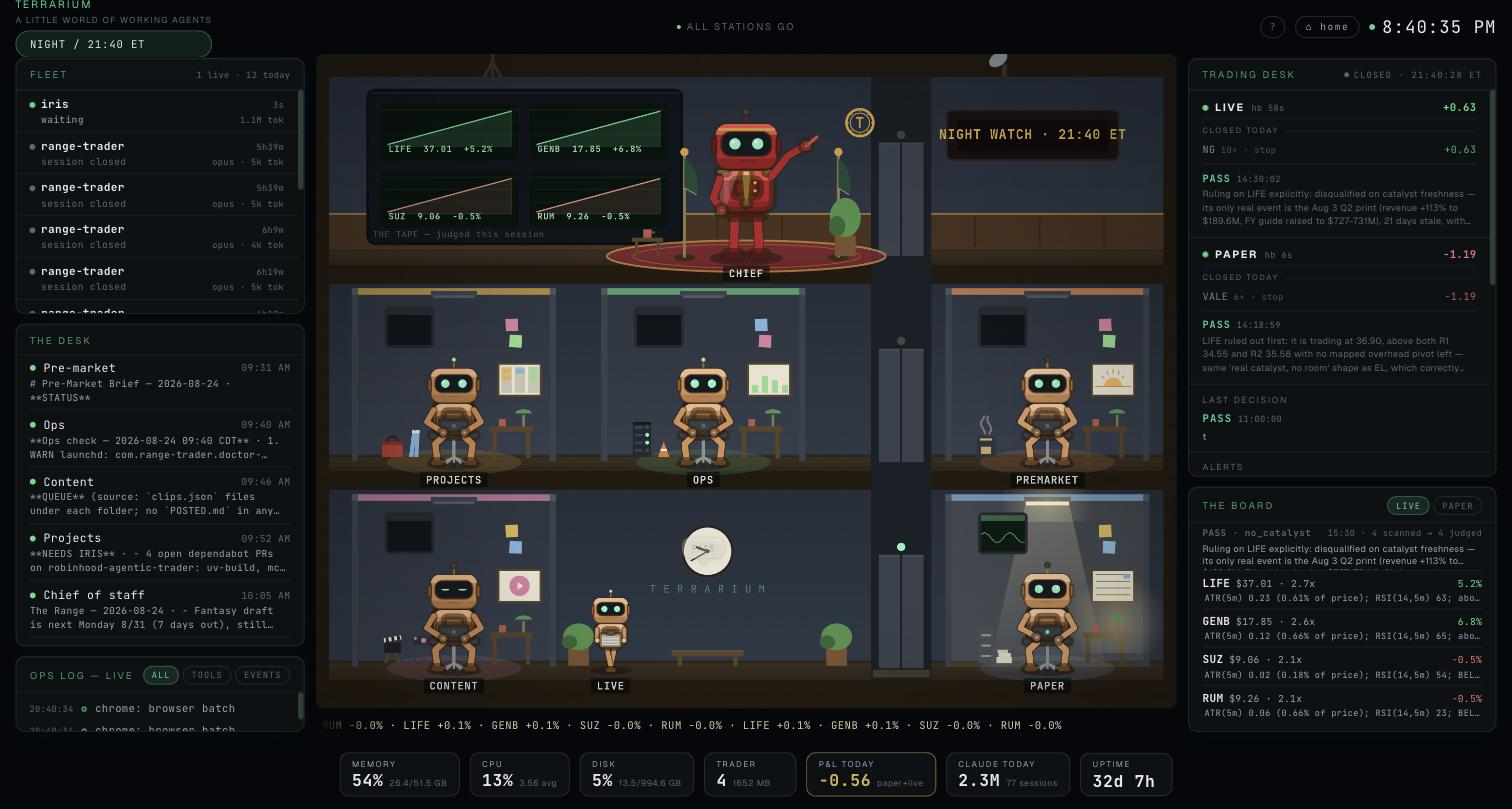
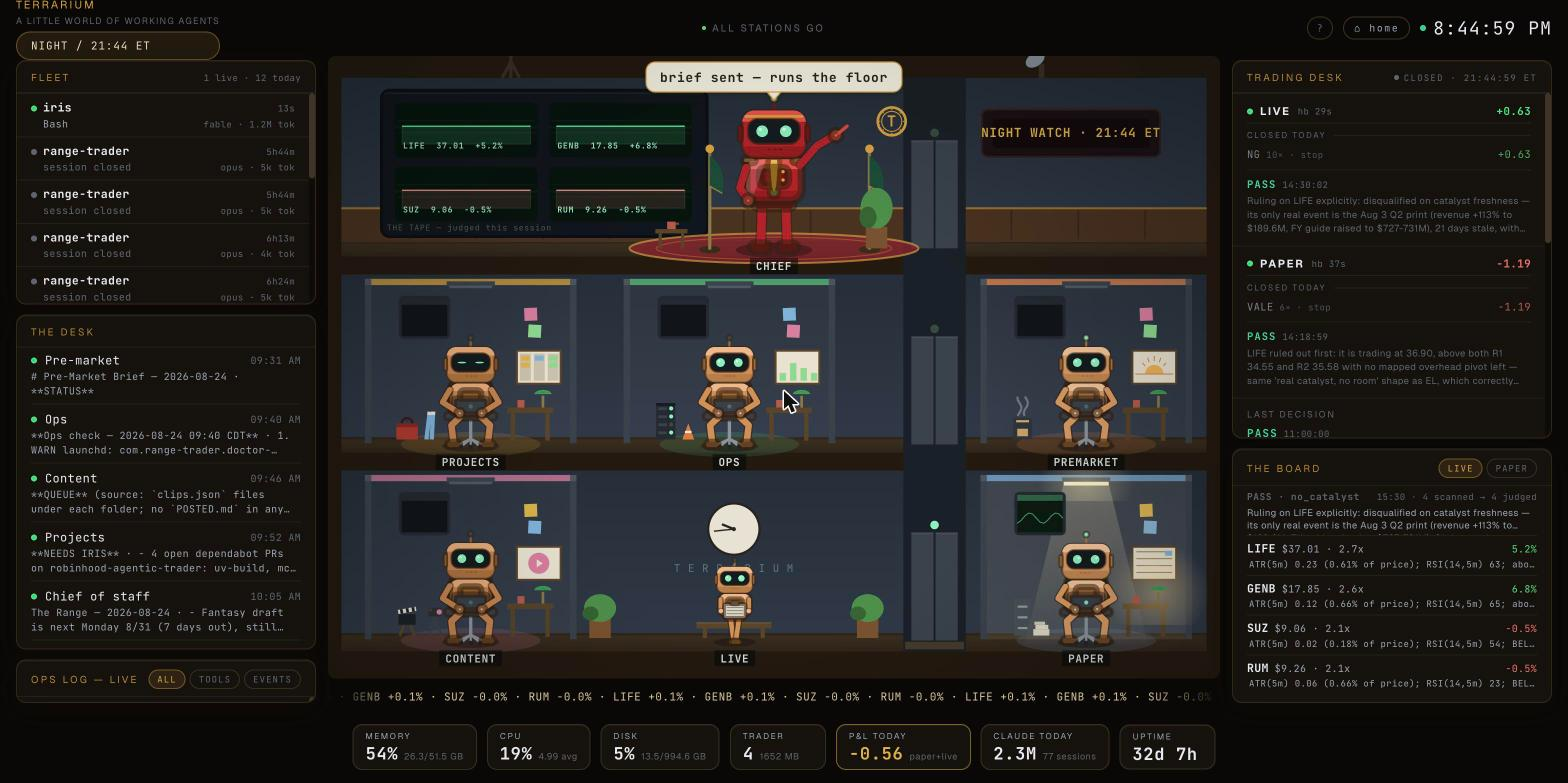
The rails join the building: warm charcoal + brass chrome
- Panel surfaces, borders, and hairlines go warm; every panel header is
  now a brass placard (gold lettering) matching the stage's fixtures.
- Brass phase chip, brass active pills, warm page glow, warm scrollbars
  and focus rings; TERRARIUM kicker in gold.
- Status stays semantic and untouched: emerald for alive/positive, red
  for down/negative, amber for waiting — chrome is warm, data is data.

diff --git a/frontend/src/ui.tsx b/frontend/src/ui.tsx
@@ -12,19 +12,23 @@ export const UI = {
   text: '#e8eaef',
   soft: '#9aa3b2',
   dim: '#5d6570',
-  // the one accent
+  // status accent (live data stays emerald)
   accent: '#3ecf9a',
   accentDim: 'rgba(62,207,154,0.72)',
   accentSoft: 'rgba(62,207,154,0.12)',
+  // chrome accent (the building's brass)
+  brass: '#d9a441',
+  brassDim: 'rgba(217,164,65,0.80)',
+  brassSoft: 'rgba(217,164,65,0.12)',
   // semantic (kept close to the accent family, desaturated)
   green: '#4ade80',
   red: '#f0716a',
   amber: '#e0b34d',
-  // surfaces
-  surface: 'rgba(17,19,24,0.78)',
-  surfaceSoft: 'rgba(24,27,33,0.66)',
-  border: '1px solid rgba(148,163,184,0.14)',
-  hairline: '1px solid rgba(148,163,184,0.09)',
+  // surfaces — warm charcoal, matching the wood-and-brass stage
+  surface: 'rgba(24,20,15,0.80)',
+  surfaceSoft: 'rgba(32,27,20,0.66)',
+  border: '1px solid rgba(210,175,120,0.15)',
+  hairline: '1px solid rgba(210,175,120,0.09)',
   radius: 10,
 } as const
 
@@ -38,7 +42,7 @@ export function Panel({ children, style }: { children: ReactNode; style?: CSSPro
       background: UI.surface,
       backdropFilter: 'blur(14px)', WebkitBackdropFilter: 'blur(14px)',
       border: UI.border, borderRadius: UI.radius,
-      boxShadow: 'inset 0 1px 0 rgba(255,255,255,0.04), 0 8px 24px rgba(4,16,11,0.32)',
+      boxShadow: 'inset 0 1px 0 rgba(255,255,255,0.04), 0 8px 24px rgba(16,10,4,0.34)',
       overflow: 'hidden',
       ...style,
     }}>
@@ -57,7 +61,7 @@ export function PanelHeader({ label, right, title }: { label: string; right?: Re
         padding: '9px 14px 7px', borderBottom: UI.hairline, flexShrink: 0, gap: 8,
       }}
     >
-      <span style={{ fontSize: 10, letterSpacing: '0.22em', color: UI.accentDim, textTransform: 'uppercase', whiteSpace: 'nowrap' }}>
+      <span style={{ fontSize: 10, letterSpacing: '0.22em', color: UI.brassDim, textTransform: 'uppercase', whiteSpace: 'nowrap' }}>
         {label}
       </span>
       {right}
@@ -95,10 +99,10 @@ export function PillButton({ active, onClick, children, title }: {
       style={{
         fontSize: 9, letterSpacing: '0.12em', textTransform: 'uppercase',
         padding: '2px 8px', cursor: 'pointer', fontFamily: MONO,
-        background: active ? UI.accentSoft : 'transparent',
-        border: `1px solid ${active ? 'rgba(62,207,154,0.35)' : 'rgba(148,163,184,0.16)'}`,
+        background: active ? UI.brassSoft : 'transparent',
+        border: `1px solid ${active ? 'rgba(217,164,65,0.4)' : 'rgba(210,175,120,0.18)'}`,
         borderRadius: 999,
-        color: active ? UI.accent : UI.dim,
+        color: active ? UI.brass : UI.dim,
       }}
     >
       {children}

diff --git a/frontend/src/App.tsx b/frontend/src/App.tsx
@@ -160,7 +160,7 @@ function StatPill({ label, value, sub, warn }: { label: string; value: string; s
     <div style={{
       display: 'flex', flexDirection: 'column', alignItems: 'flex-start',
       padding: '5px 12px 6px',
-      border: `1px solid ${warn || (numericPct != null && numericPct > 85) ? 'rgba(224,179,77,0.5)' : numericPct != null && numericPct > 70 ? 'rgba(224,179,77,0.34)' : 'rgba(148,163,184,0.16)'}`,
+      border: `1px solid ${warn || (numericPct != null && numericPct > 85) ? 'rgba(224,179,77,0.5)' : numericPct != null && numericPct > 70 ? 'rgba(224,179,77,0.34)' : 'rgba(210,175,120,0.18)'}`,
       background: UI.surface,
       borderRadius: UI.radius,
       boxShadow: 'inset 0 1px 0 rgba(255,255,255,0.04)',
@@ -229,7 +229,7 @@ export default function App() {
       <div className="shell">
         <div className="shell-header">
           <div>
-            <div style={{ fontSize: 11, color: UI.accent, letterSpacing: '0.18em', textTransform: 'uppercase' }}>Terrarium</div>
+            <div style={{ fontSize: 11, color: UI.brass, letterSpacing: '0.18em', textTransform: 'uppercase' }}>Terrarium</div>
             <div style={{ fontSize: 9, color: C.dim, letterSpacing: '0.14em', textTransform: 'uppercase', marginTop: 1 }}>a little world of working agents</div>
             <div className="hud-chip" style={{ marginTop: 4 }}>
               {phaseLabel(phase)} / {et} ET
@@ -241,7 +241,7 @@ export default function App() {
               onClick={() => setShowIntro(true)}
               style={{
                 fontFamily: MONO, fontSize: 10, color: C.dim, background: 'transparent',
-                border: '1px solid rgba(148,163,184,0.22)', borderRadius: 999, padding: '3px 9px', cursor: 'pointer',
+                border: '1px solid rgba(210,175,120,0.25)', borderRadius: 999, padding: '3px 9px', cursor: 'pointer',
               }}
               title="what am I looking at?"
             >?</button>
@@ -250,7 +250,7 @@ export default function App() {
               style={{
                 fontFamily: MONO, fontSize: 10, letterSpacing: 1.5,
                 color: view === 'home' ? UI.accent : UI.soft, background: 'transparent',
-                border: '1px solid rgba(148,163,184,0.22)', borderRadius: 999, padding: '3px 10px', cursor: 'pointer',
+                border: '1px solid rgba(210,175,120,0.25)', borderRadius: 999, padding: '3px 10px', cursor: 'pointer',
               }}
               title="the agent's own page"
             >{'\u2302'} home</button>

diff --git a/frontend/src/index.css b/frontend/src/index.css
@@ -63,7 +63,7 @@ html, body, #root {
   height: 100%;
   overflow: hidden;
   position: relative;
-  background: #05070c;
+  background: #0a0806;
 }
 
 .shell {
@@ -164,9 +164,9 @@ html, body, #root {
   letter-spacing: 0.08em;
   padding: 5px 14px;
   border-radius: 999px;
-  background: rgba(20, 40, 32, 0.72);
-  border: 1px solid rgba(62, 207, 154, 0.35);
-  color: #d8efe4;
+  background: rgba(42, 33, 18, 0.72);
+  border: 1px solid rgba(217, 164, 65, 0.38);
+  color: #ecdfc2;
 }
 
 .hud-tools {
@@ -214,9 +214,9 @@ body {
   -webkit-font-smoothing: antialiased;
   -moz-osx-font-smoothing: grayscale;
   background:
-    radial-gradient(circle at top, rgba(60, 190, 140, 0.14), transparent 40%),
-    radial-gradient(circle at bottom, rgba(30, 110, 80, 0.13), transparent 34%),
-    linear-gradient(180deg, #06110c 0%, #030a07 100%);
+    radial-gradient(circle at top, rgba(150, 110, 50, 0.12), transparent 40%),
+    radial-gradient(circle at bottom, rgba(80, 55, 25, 0.12), transparent 34%),
+    linear-gradient(180deg, #0e0b07 0%, #070503 100%);
   color: var(--mc-text);
   letter-spacing: 0.02em;
 }
@@ -235,7 +235,7 @@ input {
 
 button:hover:not(:disabled),
 select:hover:not(:disabled) {
-  border-color: #3d5548 !important;
+  border-color: #55462f !important;
 }
 
 button:active:not(:disabled) {
@@ -247,7 +247,7 @@ textarea:focus-visible,
 select:focus-visible,
 input:focus-visible {
   outline: none;
-  box-shadow: 0 0 0 1px rgba(62, 207, 154, 0.42);
+  box-shadow: 0 0 0 1px rgba(217, 164, 65, 0.42);
 }
 
 details > summary {
@@ -268,16 +268,16 @@ details[open] {
 }
 
 ::-webkit-scrollbar-track {
-  background: #0a120d;
+  background: #0f0c08;
 }
 
 ::-webkit-scrollbar-thumb {
-  background: #2c4038;
+  background: #3e3426;
   border-radius: 3px;
 }
 
 ::-webkit-scrollbar-thumb:hover {
-  background: #3d5548;
+  background: #55462f;
 }
 
 @keyframes bubble-in {

diff --git a/frontend/src/components/ClaudeHomePanel.tsx b/frontend/src/components/ClaudeHomePanel.tsx
@@ -53,7 +53,7 @@ function Shell({ children }: { children: React.ReactNode }) {
   return (
     <div style={{ height: '100%', overflowY: 'auto', display: 'grid', gap: 10, alignContent: 'start', padding: '4px 2px 8px' }}>
       <div style={{ display: 'flex', alignItems: 'baseline', gap: 10 }}>
-        <span style={{ fontFamily: MONO, fontSize: 11, letterSpacing: 3, color: UI.accentDim }}>
+        <span style={{ fontFamily: MONO, fontSize: 11, letterSpacing: 3, color: UI.brassDim }}>
           {'⌂'} CLAUDE HOME
         </span>
         <span style={{ fontSize: 10, color: UI.dim, letterSpacing: '0.08em' }}>
